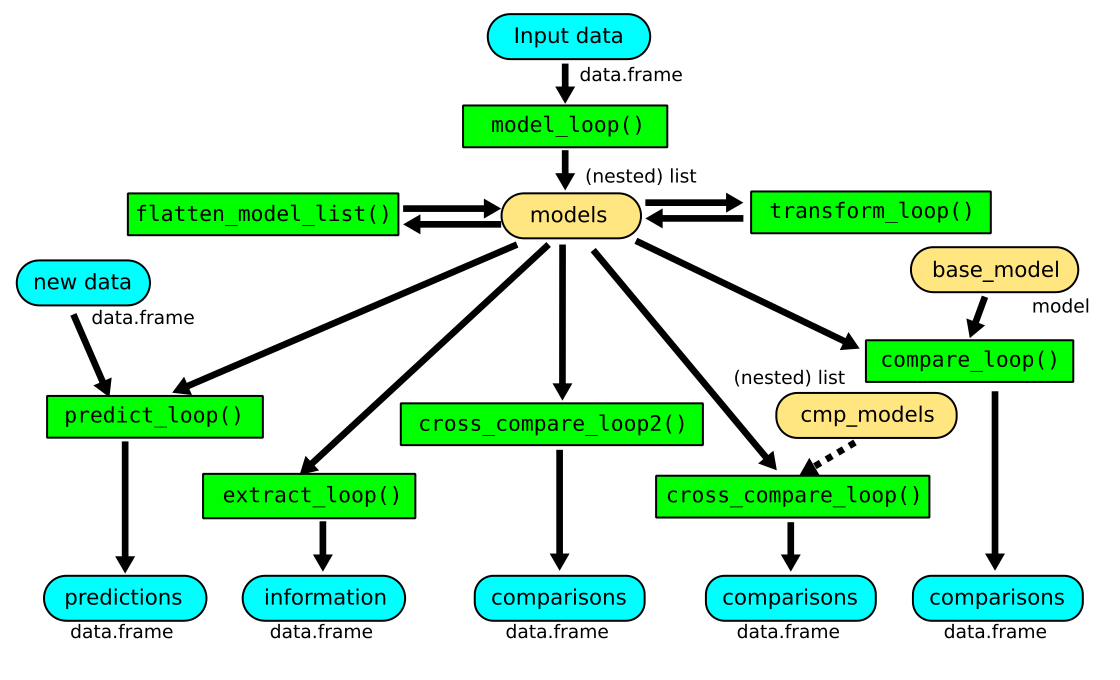
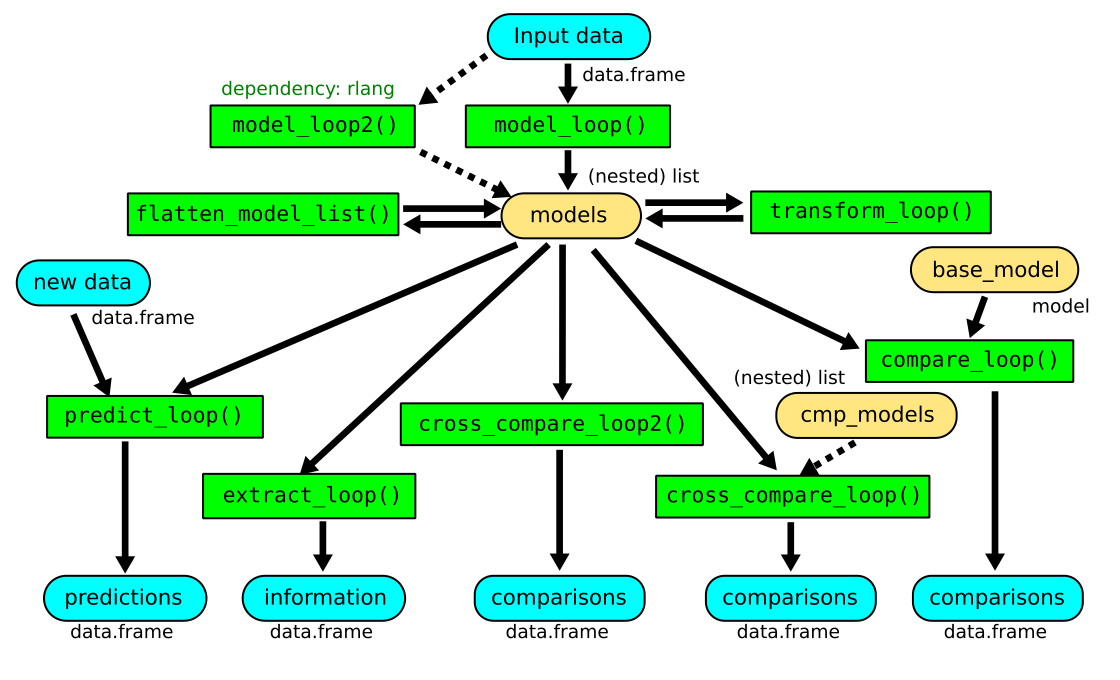
added model_loop2() and friends

diff --git a/README.md b/README.md
@@ -16,6 +16,8 @@ The typical workflow in using these functions are as follows:
 
 ![Typical Workflow for using model_loop.r functions](docs/img/model_loop_workflow.svg)
 
-Basically, start by using `model_loop()` to process the input data into a (possibly nested) list of models. If needed, the models can then be transformed and/or reorganized using `flatten_model_list()` and `transform_loop()`. The resulting model list can then be used as input for `extract_loop()`, `predict_loop()`, `compare_loop()`, `cross_compare_loop()` and `cross_compare_loop2()`. All these 5 functions take the list of models (and sometimes additional data and/or model object(s)) and produce dataframes as output, and all such dataframes include information about the categories used to subset the data. Additionally, the list of models can also optionally be saved, e.g., in an `.rda` file.
+Basically, start by using `model_loop()` (or `model_loop2()`, discussed below) to process the input data into a (possibly nested) list of models. If needed, the models can then be transformed and/or reorganized using `flatten_model_list()` and `transform_loop()`. The resulting model list can then be used as input for `extract_loop()`, `predict_loop()`, `compare_loop()`, `cross_compare_loop()` and `cross_compare_loop2()`. All these 5 functions take the list of models (and sometimes additional data and/or model object(s)) and produce dataframes as output, and all such dataframes include information about the categories used to subset the data. Additionally, the list of models can also optionally be saved, e.g., in an `.rda` file.
 
-In addition to the functions appearing in the above flow chart, `model_loops.r` also include additional convenience functions `recurse_append_attr()` and `recurse_prepand_attr()`.
+Compared to `model_loop()`, `model_loop2()` uses model calls that better resemble interactive calls, which could be useful if there is any need to reproduce the model call later on. However, `model_loop2()` also introduces a dependency to the `rlang` package, which some may prefer to avoid.
+
+In addition to the functions appearing in the above flow chart, `model_loops.r` also include convenience functions `recurse_append_attr()` and `recurse_prepand_attr()`, `nest_model_into()`, and `nest_model_list()`.
